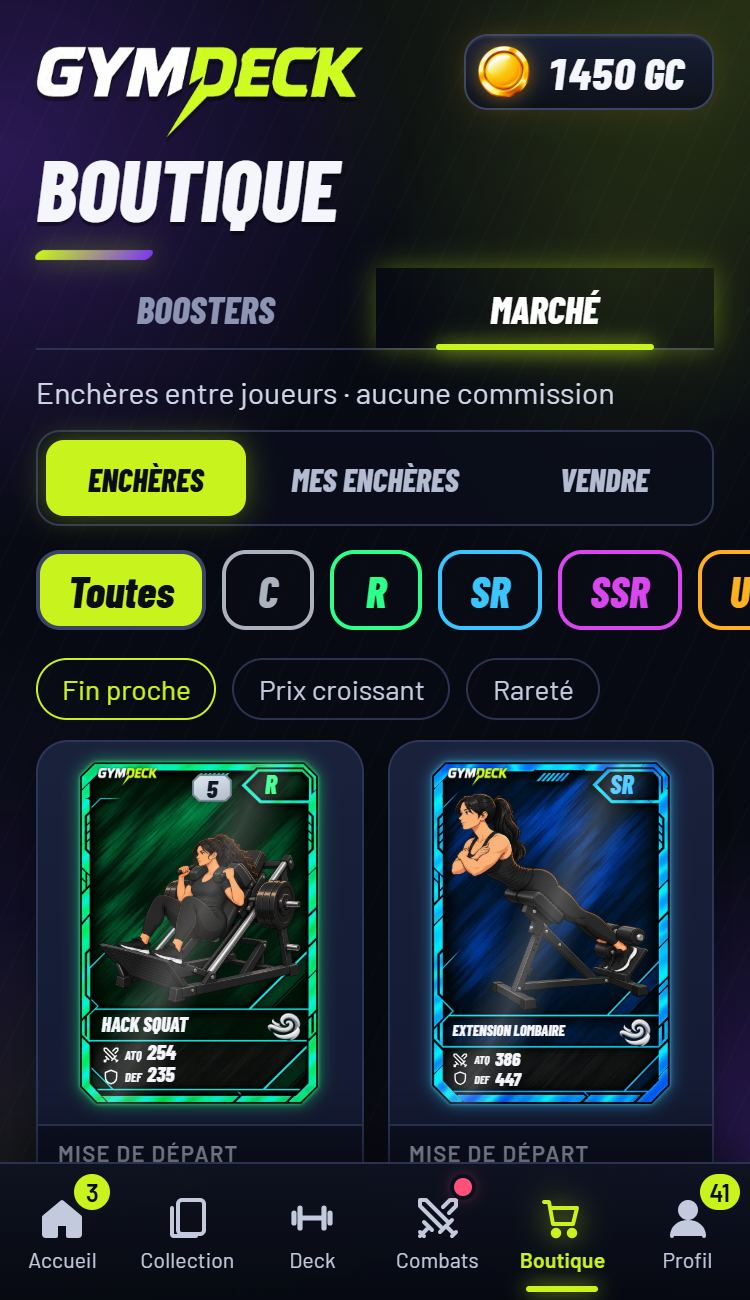
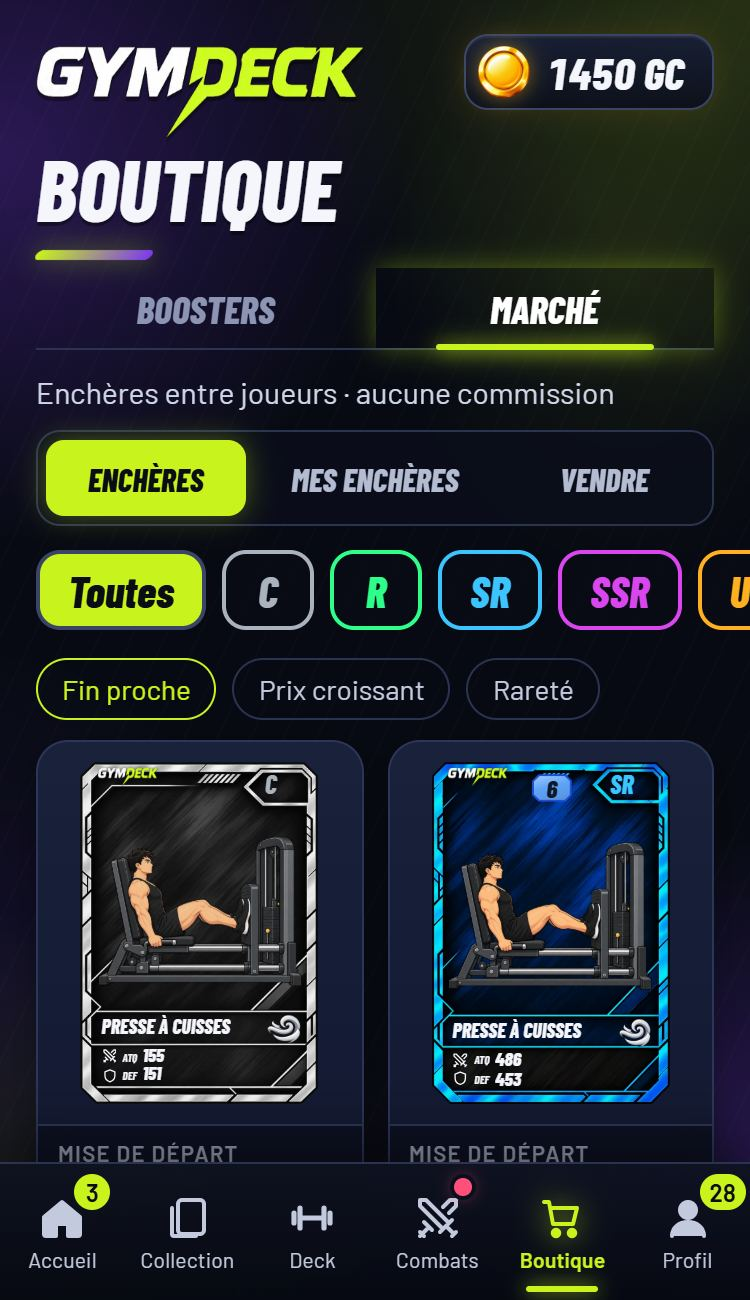
Cartes : plus de voile ni de trait gris, plus de couleurs sur les personnages, effets lumineux à partir de SSR en crescendo

Changed region(s): [[0.092, 0.5538, 0.46, 0.8615], [0.552, 0.5538, 0.92, 0.8615], [0.9507, 0.8923, 1.0, 0.9538]]

diff --git a/gymdeck-prototype/gymdeck/src/app/card-fx.css b/gymdeck-prototype/gymdeck/src/app/card-fx.css
@@ -1,48 +1,77 @@
 /* ═════════ Effets des cartes selon la rareté (composant CardFX) ═════════
-   C : mate · R / SR : bordure colorée + léger reflet · SSR : bordure métallique + reflet qui bouge ·
-   UR / LR : holographique arc-en-ciel animé, lueur, particules, inclinaison.
+   C, R, SR : aucun effet lumineux. À partir de SSR, crescendo :
+   SSR : lumière derrière le personnage, reflet doux sur le cadre, petite lueur ·
+   UR : une lumière fait le tour du cadre, lueur qui respire, quelques étincelles ·
+   LR : deux lumières, halo multicolore, éclats en étoile sur le cadre, étincelles.
+   Aucune lumière ne passe sur l'illustration.
    Uniquement transform / opacity dans les animations : fluide sur un téléphone moyen. */
 
 .cfx { --fx-x: 0; --fx-y: 0; position: relative; isolation: isolate; }
 /* la carte s'incline sous le doigt au lieu de faire défiler la page */
 .cfx-tilt { touch-action: none; }
 .cfx-in { position: relative; transform: perspective(700px) rotateX(calc(var(--fx-y) * -9deg)) rotateY(calc(var(--fx-x) * 11deg)); transition: transform .2s ease-out; }
-/* reflets découpés à la forme de la carte (l'image du cadre sert de masque) */
-.cfx-sheen, .cfx-rainbow { position: absolute; inset: 0; pointer-events: none; overflow: hidden;
-  -webkit-mask-image: var(--fmask); mask-image: var(--fmask); -webkit-mask-size: 100% 100%; mask-size: 100% 100%; }
 
 /* C : mate, sobre */
 .cfx-mat .card { filter: saturate(.9) contrast(.97); }
 
-/* R / SR : bordure colorée, léger reflet fixe qui suit un peu l'inclinaison */
-.cfx-rare .cfx-in { filter: drop-shadow(0 0 1.5px var(--rc)) drop-shadow(0 0 7px color-mix(in srgb, var(--rc) 55%, transparent)); }
-.cfx-rare .cfx-sheen::before { content: ""; position: absolute; inset: -30%; mix-blend-mode: screen;
-  background: linear-gradient(115deg, transparent 38%, rgba(255,255,255,.22) 48%, transparent 58%);
-  transform: translateX(calc(var(--fx-x) * 14%)); }
+/* Lumière derrière le personnage, entre le cadre et l'illustration */
+.artlight { position: absolute; left: 7%; right: 7%; top: 7%; height: 60%; pointer-events: none; border-radius: 50%; }
+.artlight::after { content: ""; position: absolute; inset: 0; background: radial-gradient(closest-side, color-mix(in srgb, var(--rc) 55%, #fff), color-mix(in srgb, var(--rc) 40%, transparent) 48%, transparent); }
+.artlight-SSR { opacity: .6; }
+.artlight-UR { opacity: .75; }
+.artlight-LR { opacity: .95; }
+.artlight-LR::after { background: radial-gradient(closest-side, #fff, rgba(150,200,255,.55) 45%, transparent); }
+/* LR : calme les traînées multicolores du fond (le cadre et son image restent intacts), la couleur reste sur le bord */
+.artveil { position: absolute; inset: 0; pointer-events: none; background: rgba(9,8,28,.8);
+  clip-path: polygon(6.9% 3.8%, 70% 3.8%, 66% 7.2%, 70.5% 11%, 92.9% 11%, 92.9% 60%, 81% 68%, 6.9% 68%); }
+.cfx-holo .artlight { animation: cfxArtlight 3.4s ease-in-out infinite; }
+@keyframes cfxArtlight { 0%, 100% { transform: scale(.94); } 50% { transform: scale(1.05); } }
 
-/* SSR : bordure métallique, reflet qui balaie la carte */
-.cfx-metal .cfx-in { filter: drop-shadow(0 0 1px #fff) drop-shadow(0 0 2px var(--rc)) drop-shadow(0 0 10px color-mix(in srgb, var(--rc) 60%, transparent)); }
-.cfx-metal .cfx-sheen::before { content: ""; position: absolute; top: -20%; bottom: -20%; left: -60%; width: 60%; mix-blend-mode: screen;
-  background: linear-gradient(105deg, transparent, rgba(255,255,255,.08) 30%, rgba(255,255,255,.6) 50%, rgba(255,255,255,.08) 70%, transparent);
-  animation: cfxSweep 3.2s ease-in-out infinite; }
-.cfx-metal .cfx-sheen::after { content: ""; position: absolute; inset: 0; mix-blend-mode: overlay; opacity: .5;
-  background: linear-gradient(160deg, rgba(255,255,255,.35), transparent 35%, rgba(0,0,0,.25) 65%, rgba(255,255,255,.25)); }
-@keyframes cfxSweep { 0%, 30% { transform: translateX(0) skewX(-12deg); } 80%, 100% { transform: translateX(380%) skewX(-12deg); } }
+/* Lumière sur le cadre : le premier masque suit la forme de la carte, le second retire l'intérieur */
+.cfx-rim { position: absolute; inset: 0; pointer-events: none; -webkit-mask-image: var(--fmask); mask-image: var(--fmask); -webkit-mask-size: 100% 100%; mask-size: 100% 100%; mix-blend-mode: screen; }
+.cfx-rim i { position: absolute; inset: 0; display: block; overflow: hidden; box-sizing: border-box; padding: 5.6% 7%;
+  -webkit-mask: linear-gradient(#000 0 0) content-box, linear-gradient(#000 0 0); -webkit-mask-composite: xor;
+  mask: linear-gradient(#000 0 0) content-box exclude, linear-gradient(#000 0 0); }
+.cfx-SSR .cfx-rim i { padding: 4.2% 5.2%; }
 
-/* UR / LR : lueur, holographique arc-en-ciel, particules */
-.cfx-holo .cfx-in { filter: drop-shadow(0 0 1px #fff) drop-shadow(0 0 3px var(--rc)); }
-.cfx-aura { position: absolute; inset: -9%; z-index: -1; border-radius: 12%; pointer-events: none;
-  background: radial-gradient(closest-side, color-mix(in srgb, var(--rc) 75%, transparent), color-mix(in srgb, var(--rc) 25%, transparent) 60%, transparent);
-  filter: blur(8px); animation: cfxAura 2.6s ease-in-out infinite; }
-@keyframes cfxAura { 0%, 100% { opacity: .65; transform: scale(.97); } 50% { opacity: 1; transform: scale(1.04); } }
-/* « overlay » colore la carte sans éclaircir les zones sombres : pas de brume grise sur le personnage */
-.cfx-holo .cfx-rainbow { mix-blend-mode: overlay; opacity: .55; }
-.cfx-LR .cfx-rainbow { opacity: .65; }
-.cfx-rainbow i { position: absolute; top: -10%; bottom: -10%; left: -100%; width: 300%; display: block;
-  background: repeating-linear-gradient(115deg, #ff3b6b 0%, #ffb020 5%, #f6ff3b 10%, #2dff8a 15%, #3cc4ff 20%, #8a5bff 25%, #ff4fa3 30%, #ff3b6b 33.33%);
-  transform: translateX(calc(var(--fx-x) * 8%)); animation: cfxHolo 6s linear infinite; }
-.cfx-UR .cfx-rainbow i { background: repeating-linear-gradient(115deg, #ffb020 0%, #fff4c2 6%, #ff8a3d 12%, #ffd36b 18%, #3cc4ff 24%, #ffb020 33.33%); }
-@keyframes cfxHolo { from { translate: 0 0; } to { translate: 33.33% 0; } }
+/* SSR : petite lueur, reflet doux qui passe de temps en temps sur le cadre */
+.cfx-metal .cfx-in { filter: drop-shadow(0 0 7px color-mix(in srgb, var(--rc) 45%, transparent)); }
+.cfx-metal .cfx-rim i::before { content: ""; position: absolute; top: -10%; bottom: -10%; left: -50%; width: 50%;
+  background: linear-gradient(105deg, transparent, rgba(255,255,255,.75) 50%, transparent);
+  animation: cfxSweep 5s ease-in-out infinite; }
+@keyframes cfxSweep { 0%, 35% { transform: translateX(0) skewX(-14deg); } 85%, 100% { transform: translateX(320%) skewX(-14deg); } }
+
+/* UR et LR : des lumières font le tour du cadre (un grand cône de lumière qui tourne, visible seulement sur le cadre) */
+.cfx-holo .cfx-rim i::before, .cfx-LR .cfx-rim i::after { content: ""; position: absolute; left: 50%; top: 50%; width: 360%; aspect-ratio: 1; margin: -180% 0 0 -180%; }
+.cfx-holo .cfx-rim i::before { background: conic-gradient(transparent 0 72%, color-mix(in srgb, var(--rc) 60%, transparent) 88%, #fff 98%, transparent 100%);
+  animation: cfxOrbit 4.2s linear infinite; }
+.cfx-LR .cfx-rim i::before { background: conic-gradient(transparent 0 68%, rgba(255,90,200,.7) 84%, #fff 98%, transparent 100%); animation-duration: 3.4s; }
+.cfx-LR .cfx-rim i::after { background: conic-gradient(transparent 0 68%, rgba(70,190,255,.7) 84%, #fff 98%, transparent 100%);
+  animation: cfxOrbit 3.4s linear -1.7s infinite; }
+@keyframes cfxOrbit { to { transform: rotate(360deg); } }
+
+/* Lueur autour de la carte */
+.cfx-holo .cfx-in { filter: drop-shadow(0 0 2px color-mix(in srgb, var(--rc) 70%, #fff)); }
+.cfx-aura { position: absolute; inset: -7%; z-index: -1; border-radius: 12%; pointer-events: none;
+  background: radial-gradient(closest-side, color-mix(in srgb, var(--rc) 65%, transparent) 70%, transparent);
+  filter: blur(9px); animation: cfxAura 3.4s ease-in-out infinite; }
+.cfx-LR .cfx-aura { inset: -11%; background: conic-gradient(from 20deg, #ff4fa3, #ffd34a, #3cc4ff, #8a5bff, #ff4fa3);
+  -webkit-mask-image: radial-gradient(closest-side, #000 72%, transparent); mask-image: radial-gradient(closest-side, #000 72%, transparent); filter: blur(11px); }
+@keyframes cfxAura { 0%, 100% { opacity: .55; transform: scale(.98); } 50% { opacity: .95; transform: scale(1.03); } }
+
+/* LR : éclats en étoile qui scintillent sur le cadre */
+.cfx-stars { position: absolute; inset: 0; pointer-events: none; }
+.cfx-stars i { position: absolute; width: 17%; aspect-ratio: 1; margin: -8.5% 0 0 -8.5%; opacity: 0;
+  background: radial-gradient(closest-side, #fff, rgba(255,255,255,.35) 18%, transparent 45%), linear-gradient(90deg, transparent 8%, #fff 50%, transparent 92%) center / 100% 5% no-repeat, linear-gradient(transparent 8%, #fff 50%, transparent 92%) center / 5% 100% no-repeat;
+  animation: cfxStar 3.6s ease-in-out infinite; animation-delay: calc(var(--k) * -.72s); }
+.cfx-stars i:nth-child(1) { left: 6%; top: 5%; }
+.cfx-stars i:nth-child(2) { left: 95%; top: 32%; }
+.cfx-stars i:nth-child(3) { left: 5%; top: 58%; }
+.cfx-stars i:nth-child(4) { left: 93%; top: 94%; }
+.cfx-stars i:nth-child(5) { left: 40%; top: 98%; }
+@keyframes cfxStar { 0%, 62%, 100% { opacity: 0; transform: scale(.3) rotate(0deg); } 78% { opacity: 1; transform: scale(1) rotate(25deg); } }
+
+/* Étincelles qui montent autour de la carte */
 .cfx-sparks { position: absolute; inset: -6% -4%; pointer-events: none; }
 .cfx-sparks i { position: absolute; bottom: 8%; left: calc(6% + var(--k) * 12.5%); width: 5px; height: 5px; border-radius: 50%; opacity: 0;
   background: #fff; box-shadow: 0 0 6px 1px var(--rc);
@@ -52,25 +81,17 @@
 
 @media (prefers-reduced-motion: reduce) {
   .cfx-in { transform: none; transition: none; }
-  .cfx-metal .cfx-sheen::before, .cfx-aura, .cfx-rainbow i { animation: none; }
-  .cfx-metal .cfx-sheen::before { transform: translateX(160%) skewX(-12deg); }
-  .cfx-sparks { display: none; }
+  .cfx-rim, .cfx-stars, .cfx-sparks { display: none; }
+  .cfx-aura, .cfx-holo .artlight { animation: none; opacity: .7; }
 }
 
 /* ═════════ Version légère et fixe (Card dans les grilles et listes) ═════════
-   Mêmes styles, sans animation ni lueur ni particules : des dizaines de cartes à l'écran restent fluides. */
-.fxl-sheen, .fxl-rainbow { position: absolute; inset: 0; pointer-events: none; overflow: hidden;
-  -webkit-mask-image: var(--fmask); mask-image: var(--fmask); -webkit-mask-size: 100% 100%; mask-size: 100% 100%; }
+   Sans animation ni particules : des dizaines de cartes à l'écran restent fluides.
+   Une petite lueur de plus en plus forte selon la rareté, à partir de SSR. */
 .card.fxl-mat > img.frame, .card.fxl-mat .art { filter: saturate(.9) contrast(.97); }
-.card.fxl-rare { filter: drop-shadow(0 0 1px var(--rc)) drop-shadow(0 0 4px color-mix(in srgb, var(--rc) 50%, transparent)); }
-.fxl-rare .fxl-sheen { mix-blend-mode: screen; background: linear-gradient(115deg, transparent 38%, rgba(255,255,255,.2) 48%, transparent 58%); }
-.card.fxl-metal { filter: drop-shadow(0 0 1px #fff) drop-shadow(0 0 5px color-mix(in srgb, var(--rc) 60%, transparent)); }
-.fxl-metal .fxl-sheen { mix-blend-mode: screen; background: linear-gradient(105deg, transparent 20%, rgba(255,255,255,.4) 34%, transparent 46%), linear-gradient(160deg, rgba(255,255,255,.2), transparent 35%, transparent 70%, rgba(255,255,255,.15)); }
-.card.fxl-holo { filter: drop-shadow(0 0 1px #fff) drop-shadow(0 0 6px var(--rc)); }
-.fxl-rainbow { mix-blend-mode: overlay; opacity: .5;
-  background: repeating-linear-gradient(115deg, #ff3b6b 0%, #ffb020 5%, #f6ff3b 10%, #2dff8a 15%, #3cc4ff 20%, #8a5bff 25%, #ff4fa3 30%, #ff3b6b 33.33%); }
-.fxl-UR .fxl-rainbow { background: repeating-linear-gradient(115deg, #ffb020 0%, #fff4c2 6%, #ff8a3d 12%, #ffd36b 18%, #3cc4ff 24%, #ffb020 33.33%); }
-.fxl-LR .fxl-rainbow { opacity: .6; }
+.card.fxl-metal { filter: drop-shadow(0 0 4px color-mix(in srgb, var(--rc) 50%, transparent)); }
+.card.fxl-UR { filter: drop-shadow(0 0 6px color-mix(in srgb, var(--rc) 70%, transparent)); }
+.card.fxl-LR { filter: drop-shadow(0 0 2px rgba(255,255,255,.8)) drop-shadow(0 0 8px var(--rc)); }
 
 /* ═════════ Ouverture : explosion de lumière de la couleur de la rareté (aperçu) ═════════ */
 .cfx-burst { position: absolute; inset: -40%; pointer-events: none; z-index: -1; border-radius: 50%; opacity: 0;

diff --git a/gymdeck-prototype/gymdeck/src/components/CardFX.tsx b/gymdeck-prototype/gymdeck/src/components/CardFX.tsx
@@ -8,15 +8,17 @@ import { Card, fxTier } from "./Card";
 const reduced = () => typeof window !== "undefined" && window.matchMedia("(prefers-reduced-motion: reduce)").matches;
 
 /**
- * Carte avec l'effet de sa rareté :
- * C mate · R/SR bordure colorée et léger reflet · SSR bordure métallique et reflet qui bouge ·
- * UR/LR holographique arc-en-ciel animé, lueur, particules, et inclinaison (souris, doigt ou gyroscope).
- * Tout en CSS ; le JS ne sert qu'à l'inclinaison.
+ * Carte avec l'effet de sa rareté. C, R, SR : aucun effet lumineux.
+ * À partir de SSR, crescendo : SSR reflet doux sur le cadre · UR lumière qui fait le tour du cadre, lueur, étincelles ·
+ * LR deux lumières, halo multicolore, éclats en étoile, étincelles. La lumière ne passe jamais sur l'illustration.
+ * Tout en CSS ; le JS ne sert qu'à l'inclinaison (souris, doigt ou gyroscope).
  */
 export function CardFX({ card, tilt = true, className = "" }: { card: CardData; tilt?: boolean; className?: string }) {
   const ref = useRef<HTMLDivElement>(null);
   const tier = fxTier(card.rarity);
   const moving = tilt && tier !== "mat";
+  const top = tier === "holo";
+  const lit = tier === "metal" || top;
 
   useEffect(() => {
     const el = ref.current;
@@ -55,16 +57,20 @@ export function CardFX({ card, tilt = true, className = "" }: { card: CardData; 
       onPointerLeave={leave}
       onPointerUp={leave}
     >
-      {tier === "holo" && <span className="cfx-aura" aria-hidden />}
+      {top && <span className="cfx-aura" aria-hidden />}
       <div className="cfx-in">
-        {/* l'effet maison remplace l'ancien reflet doré / arc-en-ciel du cadre */}
         <Card card={card} holo={false} />
-        {tier !== "mat" && <span className="cfx-sheen" aria-hidden />}
-        {tier === "holo" && <span className="cfx-rainbow" aria-hidden><i /></span>}
+        {/* la lumière reste sur le cadre : le masque découpe la forme de la carte, puis retire l'intérieur */}
+        {lit && <span className="cfx-rim" aria-hidden><i /></span>}
+        {card.rarity === "LR" && (
+          <span className="cfx-stars" aria-hidden>
+            {Array.from({ length: 5 }, (_, k) => <i key={k} style={{ ["--k" as string]: k }} />)}
+          </span>
+        )}
       </div>
-      {tier === "holo" && (
+      {top && (
         <span className="cfx-sparks" aria-hidden>
-          {Array.from({ length: 8 }, (_, k) => <i key={k} style={{ ["--k" as string]: k }} />)}
+          {Array.from({ length: card.rarity === "LR" ? 8 : 4 }, (_, k) => <i key={k} style={{ ["--k" as string]: k * (card.rarity === "LR" ? 1 : 2) }} />)}
         </span>
       )}
     </div>

diff --git a/gymdeck-prototype/gymdeck/src/components/Card.tsx b/gymdeck-prototype/gymdeck/src/components/Card.tsx
@@ -32,9 +32,12 @@ export function Card({ card, count, holo = true, cap = true, hideStats = false }
   return (
     <div
       className={`card ${card.grade ? "graded" : ""} ${holo ? `fxl fxl-${tier} fxl-${card.rarity}` : ""}`}
-      style={holo ? { ["--rc" as string]: color, ["--fmask" as string]: `url(/assets/frames/${card.rarity}.webp)` } : undefined}
+      style={{ ["--rc" as string]: color, ...(holo ? { ["--fmask" as string]: `url(/assets/frames/${card.rarity}.webp)` } : {}) }}
     >
       <img className="frame" src={`/assets/frames/${card.rarity}.webp`} alt="" draggable={false} decoding="async" />
+      {/* lumière derrière le personnage, à partir de SSR : elle ne colore pas l'illustration */}
+      {card.rarity === "LR" && <span className="artveil" aria-hidden />}
+      {(tier === "metal" || tier === "holo") && <span className={`artlight artlight-${card.rarity}`} aria-hidden />}
       <img
         className="art"
         src={ex.image}
@@ -88,8 +91,6 @@ export function Card({ card, count, holo = true, cap = true, hideStats = false }
           </>
         )}
       </div>
-      {holo && tier !== "mat" && <span className="fxl-sheen" aria-hidden />}
-      {holo && tier === "holo" && <span className="fxl-rainbow" aria-hidden />}
       {count && count > 1 ? <span className="count">×{count}</span> : null}
     </div>
   );

diff --git a/gymdeck-prototype/gymdeck/src/app/test-cartes/page.tsx b/gymdeck-prototype/gymdeck/src/app/test-cartes/page.tsx
@@ -15,7 +15,7 @@ const DEMO: CardData[] = [
   { exerciseSlug: "developpe-incline", rarity: "UR", atq: 1104, def: 966, passive: { type: "ATQ", atqTenths: 36, defTenths: 0 } },
   { exerciseSlug: "leg-extension", rarity: "LR", atq: 1560, def: 1490, passive: { type: "BOTH", atqTenths: 31, defTenths: 29 } },
 ];
-const LABEL: Record<string, string> = { C: "Commune · mate", R: "Rare · bordure colorée", SR: "Rare · bordure colorée", SSR: "Très rare · bordure métallique", UR: "Haute rareté · holographique", LR: "Rareté maximale · holographique" };
+const LABEL: Record<string, string> = { C: "Commune · sans effet", R: "Rare · sans effet", SR: "Rare · sans effet", SSR: "Très rare · reflet sur le cadre", UR: "Haute rareté · lumière autour du cadre", LR: "Rareté maximale · deux lumières, halo, éclats" };
 
 export default function TestCartes() {
   const [run, setRun] = useState(0);

diff --git a/gymdeck-prototype/gymdeck/src/screens/Onboarding.tsx b/gymdeck-prototype/gymdeck/src/screens/Onboarding.tsx
@@ -26,7 +26,7 @@ const FAN: CardData[] = [
 const SHOTS = [
   { src: "/assets/landing/ouverture.jpg", label: "Ouvre tes boosters", alt: "Ouverture d’un booster : une carte légendaire apparaît" },
   { src: "/assets/landing/collection.jpg", label: "Complète ta collection", alt: "La collection de cartes, classées par groupe musculaire" },
-  { src: "/assets/landing/holo.jpg", label: "Des cartes holographiques", alt: "Une carte rare holographique en gros plan" },
+  { src: "/assets/landing/holo.jpg", label: "Des cartes qui brillent", alt: "Une carte rare lumineuse en gros plan" },
   { src: "/assets/landing/marche.jpg", label: "Le Marché aux enchères", alt: "Le Marché, où les cartes se vendent aux enchères" },
 ];
 
